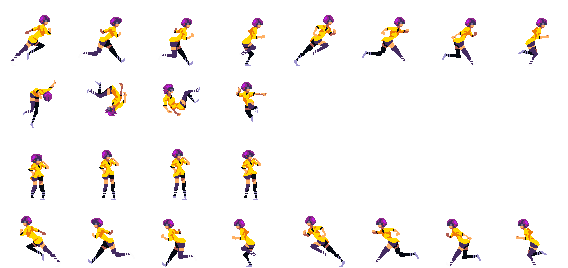
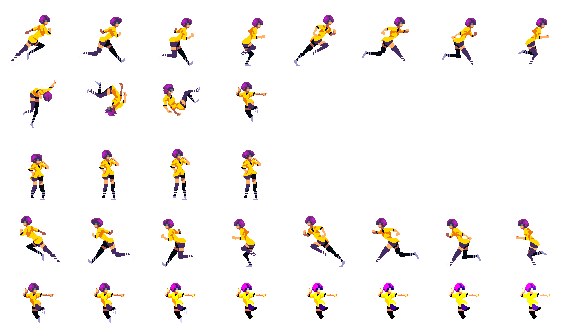
update player spritesheet

diff --git a/src/runner/player.rs b/src/runner/player.rs
@@ -56,6 +56,10 @@ impl Plugin for PlayerPlugin {
                     length: 8,
                     offset: 24,
                 },
+                dash_attack: AnimationData {
+                    length: 8,
+                    offset: 32,
+                },
                 run_step_counter: 0,
             })
             .add_system_set(
@@ -91,7 +95,7 @@ fn spawn_character(
     rapier_config: Res<RapierConfiguration>,
 ) {
     let texture_handle = asset_server.load("player.png");
-    let texture_atlas = TextureAtlas::from_grid(texture_handle, Vec2::new(71.0, 67.0), 8, 4);
+    let texture_atlas = TextureAtlas::from_grid(texture_handle, Vec2::new(71.0, 67.0), 8, 5);
     let texture_atlas_handle = texture_atlases.add(texture_atlas);
     let player = Player {
         speed: 8.0,
@@ -245,6 +249,7 @@ pub struct PlayerAnimationResource {
     pub run_left: AnimationData,
     pub jump: AnimationData,
     pub idle: AnimationData,
+    pub dash_attack: AnimationData,
     pub run_step_counter: u32,
 }
 
